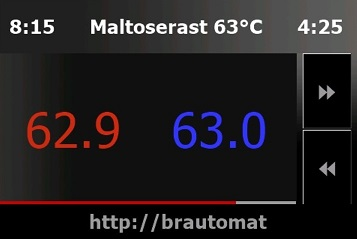
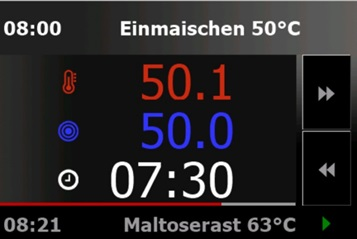
V 1.32

diff --git a/docs/display.md b/docs/display.md
@@ -26,3 +26,27 @@ _Hinweis: der Anschlus D4 verbleibt ungenutzt._
 ## Displaydatei flashen
 
 Vor dem ersten Betrieb muss das Display vorbereitet werden. Hierzu wird die passende Display Firmware aus der Tabelle heruntergeladen und auf eine microSD Karte gespeichert. Die microSD Karte wird in den SD Kartenslot vom Display eingesteckt und der Brautomat eingeschaltet. Der Flashvorgang startet automatisch. Der Flashstatus wird auf dem Display angezeigt. Nach Abschluss wird der Brautomat ausgeschaltet und die microSD Karte wird entfernt. Für den normalen Betrieb wird die microSD Karte nicht benötigt.
+
+## MaischeSud
+
+![MaischeSud](/docs/img/brewpage-sm.jpg)
+
+Die Seite MaischeSud ist die bevorzugte Seite beim Brauen. Auf dem Dispaly werden die sekündlich die Informationen
+
+* Ist-Temperatur
+* Ziel-Temperatur (Rast-Temperatur)
+* verbleibende Rastdauer
+
+angezeigt. In der unteren Zeile wird zusätzlich die nächste Rast angezeigt. Die Zeitangabe links ist die Uhrzeit, zu welche die nächste Rast starten wird. Das grüne Play Symbol rechts zeigt an, dass die nächste Rast automatisch startet.
+
+## Kesselübersicht
+
+![Kesselübersicht](/docs/img/kettlepage-sm.jpg)
+
+Die Kesselübersicht wurde aus dem MQTTDevice übernommen und zeigt den MaischeSud Kessel und falls vorhanden den Nachguss mit den Informationen Ist- und Ziel-Temnperatur an.
+
+## Manuelle Steuerung
+
+![Manuelle Steueung](/docs/img/induction-mode-sm.jpg)
+
+Die Seite manuelle Steuerung bietet die Möglichkeit, die GGM IDS manuell zu betreiben. Über die Buttons + und - können die Leistungsstufen hoch- bzw. heruntergeregelt werden.

diff --git a/docs/README.md b/docs/README.md
@@ -54,10 +54,10 @@ Der Brautomat wird über einen WebBrowser gesteuert. Es wird ein Browser mit Unt
 
 Hinweis: das Display ist eine optionale Erweiterung für den Brautomat. Es werden nur Nextion ITEAD HMI 3.5 Zoll Displays unterstützt.
 
-* Braustatus Info (Infoscreen, keine Steuerung)
+* Kesselübersicht Info (Infoscreen, keine Steuerung)
 * MaischeSud Info (Infoscreen, keine Steuerung)
 * Manuelle Steuerung Kochen (manuelle Steuerung GGM IDS2)
 
-![Braustatus](/docs/img/kettlepage-sm.jpg) ![MaischeSud](/docs/img/brewpage-sm.jpg) ![Manuelle Steueung](/docs/img/induction-mode-sm.jpg)
+![Kesselübersicht](/docs/img/kettlepage-sm.jpg) ![MaischeSud](/docs/img/brewpage-sm.jpg) ![Manuelle Steueung](/docs/img/induction-mode-sm.jpg)
 
 _"Boxing Bell" (info), "Short School Bell" (error), "Ding sound effect" (warning) und "Success sound effect" (success) mp3 von Free Sounds Library [http://www.freesoundslibrary.com](http://www.freesoundslibrary.com) Licence: Attribution 4.0 International (CC BY 4.0). You are allowed to use sound effects free of charge and royalty free in your multimedia projects for commercial or non-commercial purposes._
